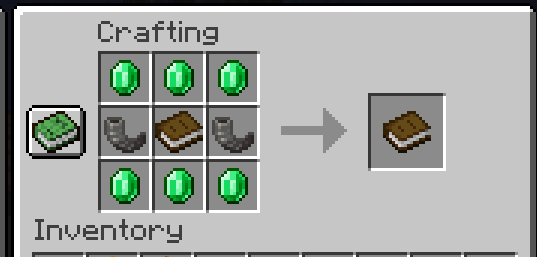
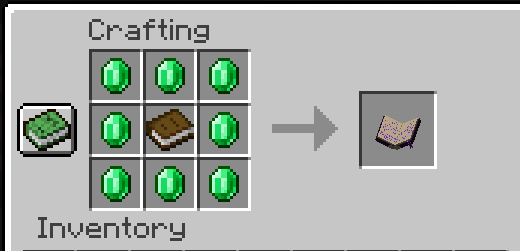
chore: updates docs

diff --git a/docs/servers/goatMagic.md b/docs/servers/goatMagic.md
@@ -24,30 +24,17 @@ You'll need to find a goat named `Jeff`. Jeff has a low chance of spawning with 
 
 This item does nothing by itself, however, it is used as an ingredient for other items.
 
+* **Note**: This item doesn't do much at the moment due to a last minute change, however, it will be used for something interesting specifically for 1.19. 
+
 ## Crafting
 
 <img src="/assets/items/magical-goat-horn-crafting.png" />
 
 You'll need 8 essences (not emeralds) with one goat horn. Surround the goat horn with the essence and you'll get a magical goat horn.
 
-# Goat-Infused Pickaxe
-
-A goat-infused pickaxe is a special tool, merged with the essence of the Goat. When mining with said tool, it has the ability to absorb certain materials to produce essence. 
-
-However, you may need to be careful when mining. Generating too much essence can have consequences!
-
-## Crafting
-
-<img src="/assets/items/goat-infused-pickaxe-crafting.png" />
-
-You'll need one magical goat horn with a netherite pickaxe. Merge the two in a crafting table and you'll get a Goat Infused Pickaxe.
-
-* **Note**: Other tools currently do not work.
-* **Note**: This will **NOT** bring over any enchantments. 
-
 # Essence
 
-This is an item that can only drop when using Goat-Infused tools. 
+This item has a random chance of dropping.
 
 ## Consumable
 
@@ -64,7 +51,9 @@ This is a single tool that allows you to select and cast spells.
 
 <img src="/assets/items/spellbook-crafting.png" />
 
-You'll need 6 essence, 2 magical goat horns, and 1 book. This will give you a spellbook.
+You'll need 8 essence and 1 book. This will give you a spellbook.
+
+* **Note**: This will change in the future.
 
 ## Controls
 
